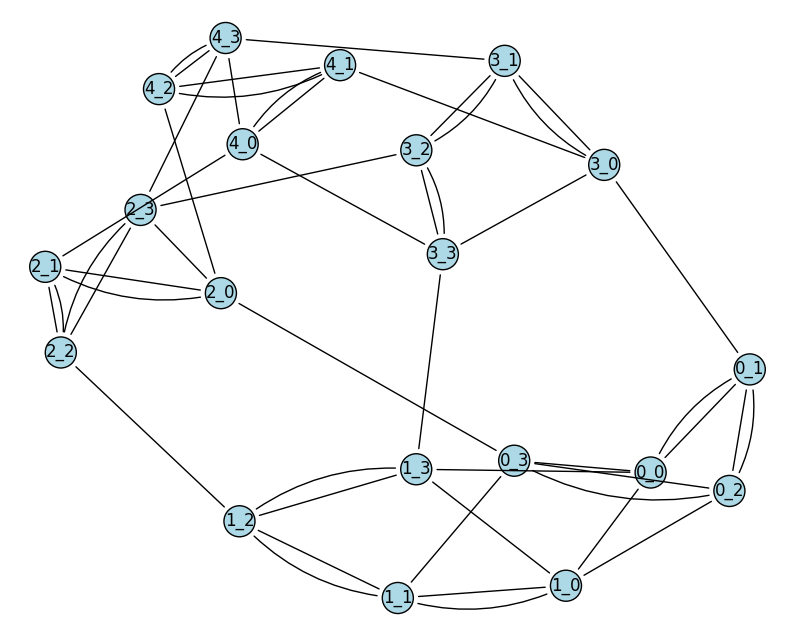
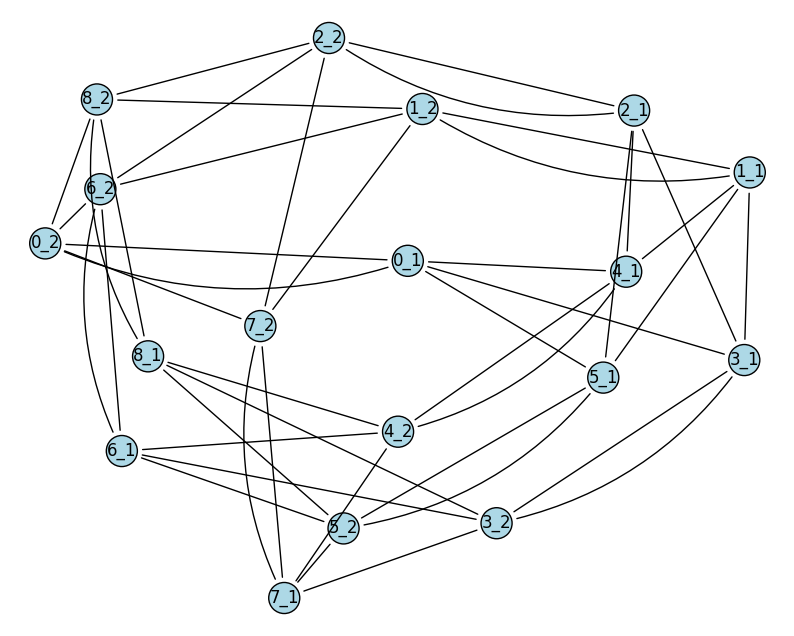
WIP

diff --git a/python/scripts/some_graph.py b/python/scripts/some_graph.py
@@ -2,56 +2,53 @@ import networkx as nx
 from functions_d.add_edge import add_edge, add_two_edges
 from functions_d.is_colorable import is_edge_k_colorable
 import matplotlib.pyplot as plt
+from functions_d.draw_multigraph import draw_multigraph
+
 
 def main():
-    G =nx.Graph()
+    G =nx.MultiGraph()
     
-    G.add_node("g1")
-    G.add_node("g2")
-    G.add_node("g3")
+    for i in range(0,9):
+        G.add_edge(f"{i}_1", f"{i}_2")
+        G.add_edge(f"{i}_1", f"{i}_2")
     
-    G.add_node("b1")
-    G.add_node("b2")
     
-    G.add_node("r1")
-    G.add_node("r2")
+    G.add_edge(f"0_1", f"3_1")
+    G.add_edge(f"0_1", f"4_1")
+    G.add_edge(f"0_1", f"5_1")
+    G.add_edge(f"1_1", f"3_1")
+    G.add_edge(f"1_1", f"4_1")
+    G.add_edge(f"1_1", f"5_1")
+    G.add_edge(f"2_1", f"3_1")
+    G.add_edge(f"2_1", f"4_1")
+    G.add_edge(f"2_1", f"5_1")
+
+    G.add_edge(f"6_1", f"3_2")
+    G.add_edge(f"6_1", f"4_2")
+    G.add_edge(f"6_1", f"5_2")
+    G.add_edge(f"7_1", f"3_2")
+    G.add_edge(f"7_1", f"4_2")
+    G.add_edge(f"7_1", f"5_2")
+    G.add_edge(f"8_1", f"3_2")
+    G.add_edge(f"8_1", f"4_2")
+    G.add_edge(f"8_1", f"5_2")
+
     
-    G.add_node("ble")
+    G.add_edge(f"6_2", f"0_2")
+    G.add_edge(f"6_2", f"1_2")
+    G.add_edge(f"6_2", f"2_2")
+    G.add_edge(f"7_2", f"0_2")
+    G.add_edge(f"7_2", f"1_2")
+    G.add_edge(f"7_2", f"2_2")
+    G.add_edge(f"8_2", f"0_2")
+    G.add_edge(f"8_2", f"1_2")
+    G.add_edge(f"8_2", f"2_2")
     
-    G.add_edge("g1","g2")
-    G.add_edge("g1","g3")
-    G.add_edge("g2","g3")
-    
-    G.add_edge("g1","ble")
-    G.add_edge("g1","b1")
-    G.add_edge("g1","b2")
-    G.add_edge("g2","ble")
-    G.add_edge("g2","b1")
-    G.add_edge("g2","b2")
-    G.add_edge("g3","ble")
-    G.add_edge("g3","b1")
-    G.add_edge("g3","b2")
-    
-    G.add_edge("b1","b2")
-    G.add_edge("b1","r2")
-    G.add_edge("b2","r1")
-    
-    G.add_edge("r1","ble")
-    G.add_edge("r2","ble")
-    
-    G.add_edge("r1","r2")
-    G.add_edge("r1","r2")
-    
-    G = add_two_edges(G,"r1","r2")
     
     print(nx.degree_histogram(G))
     print(nx.edge_connectivity(G))
     print(is_edge_k_colorable(G,5))
-    
-    plt.figure(figsize=(10,10))
-    nx.draw(G, with_labels=True, node_color='lightblue', edge_color='gray', node_size=800, font_size=14)
-    plt.savefig("2ca.png")
-    plt.close()
+    draw_multigraph(G)
     
     
 if __name__ == "__main__":

diff --git a/python/scripts/some_graph2.py b/python/scripts/some_graph2.py
@@ -28,8 +28,8 @@ def all_pairings(arr):
 
     for i in range(1, len(arr)):
         pair = (first, arr[i])
-        if first[:1] == arr[i][:1]:
-            continue
+        if first == arr[i] or arr[i-1] == arr[i]:
+           continue
         
         remaining = arr[1:i] + arr[i+1:]
 
@@ -56,58 +56,56 @@ def main():
     
     free_nodes = []
     
-    for i in range(0,5):
-        G.add_edge(f"{i}_0",f"{i}_1")
-        G.add_edge(f"{i}_0",f"{i}_1")
-        
-        G.add_edge(f"{i}_2",f"{i}_1")
-        G.add_edge(f"{i}_2",f"{i}_1")
-        
-        G.add_edge(f"{i}_2",f"{i}_3")
-        G.add_edge(f"{i}_2",f"{i}_3")
-        
-        G.add_edge(f"{i}_0",f"{i}_3")
-        free_nodes.append(f"{i}_0")
-        free_nodes.append(f"{i}_0")
-        free_nodes.append(f"{i}_1")
-        free_nodes.append(f"{i}_2")
-        free_nodes.append(f"{i}_3")
-        free_nodes.append(f"{i}_3")
+    n=11
     
-    free_nodes.remove("0_0")
-    free_nodes.remove("1_3")
-    G.add_edge("0_0","1_3")
-    free_nodes.remove("0_3")
-    free_nodes.remove("2_0")
-    G.add_edge("0_3","2_0")
-    free_nodes.remove("0_1")
-    free_nodes.remove("3_0")
-    G.add_edge("0_1","3_0")
+    for i in range(0,n):
+        G.add_edge(f"_{i}",f"_{(i+1)%n}")
+        G.add_edge(f"_{i}",f"_{(i+1)%n}")
+        free_nodes.append(f"_{i}")
+    free_nodes.append(f"_{n+1}")
+    free_nodes.append(f"_{n+1}")
+    free_nodes.append(f"_{n+1}")
+    free_nodes.append(f"_{n+2}")
+    free_nodes.append(f"_{n+2}")
+    free_nodes.append(f"_{n+2}")
+    free_nodes.append(f"_{n+3}")
+    free_nodes.append(f"_{n+3}")
+    free_nodes.append(f"_{n+3}")
+    G.add_edge(f"_{n+1}",f"_{n+2}")
+    G.add_edge(f"_{n+1}",f"_{n+3}")
+    G.add_edge(f"_{n+2}",f"_{n+3}")
     
-    
+    G.add_edge("_0", f"_{n+1}")
+    free_nodes.remove("_0")
+    free_nodes.remove(f"_{n+1}")
     
     cnt = 0
     for pairing in all_pairings(free_nodes):
         cnt+=1
         if cnt < 0: #5M
             continue
-        if cnt % 100000 == 0:
+        if cnt % 1000 == 0:
             print (cnt, pairing)
         
        
         H = G.copy()
         for pair in pairing:
             H.add_edge(pair[0], pair[1])
-        if cnt % 10000 == 0:
+        if cnt % 1000 == 0:
             draw_multigraph(H)
         
-        if multigraph_edge_connectivity(H) >4:
-            print(multigraph_edge_connectivity(H))
-            draw_multigraph(H)
-            print(cnt, pairing)
-            return
+        if multigraph_edge_connectivity(H) >3:
+            if not is_multigraph_edge_k_colorable(H,5)[0]:
+                print("wiiii", pairing)
+                nx.degree_histogram(H)
+                print(nx.minimum_edge_cut(H),multigraph_edge_connectivity(H))
+                draw_multigraph(H)
+                return
+            #print(multigraph_edge_connectivity(H))
+            #draw_multigraph(H)
+            #print(cnt, pairing)
         
-    print(is_multigraph_edge_k_colorable(G, 5))
+    #print(is_multigraph_edge_k_colorable(G, 5))
     
     
     